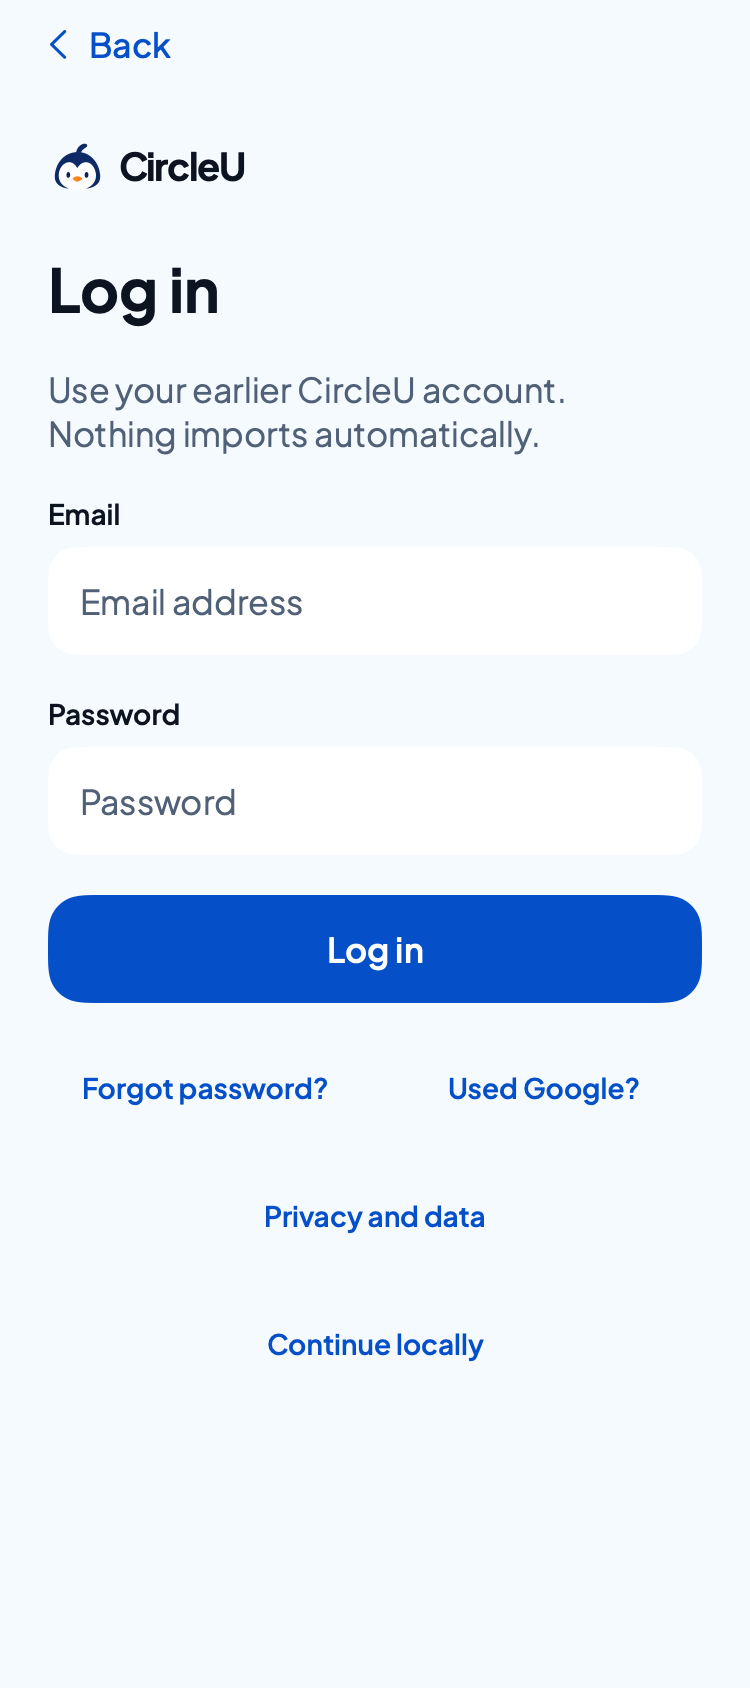
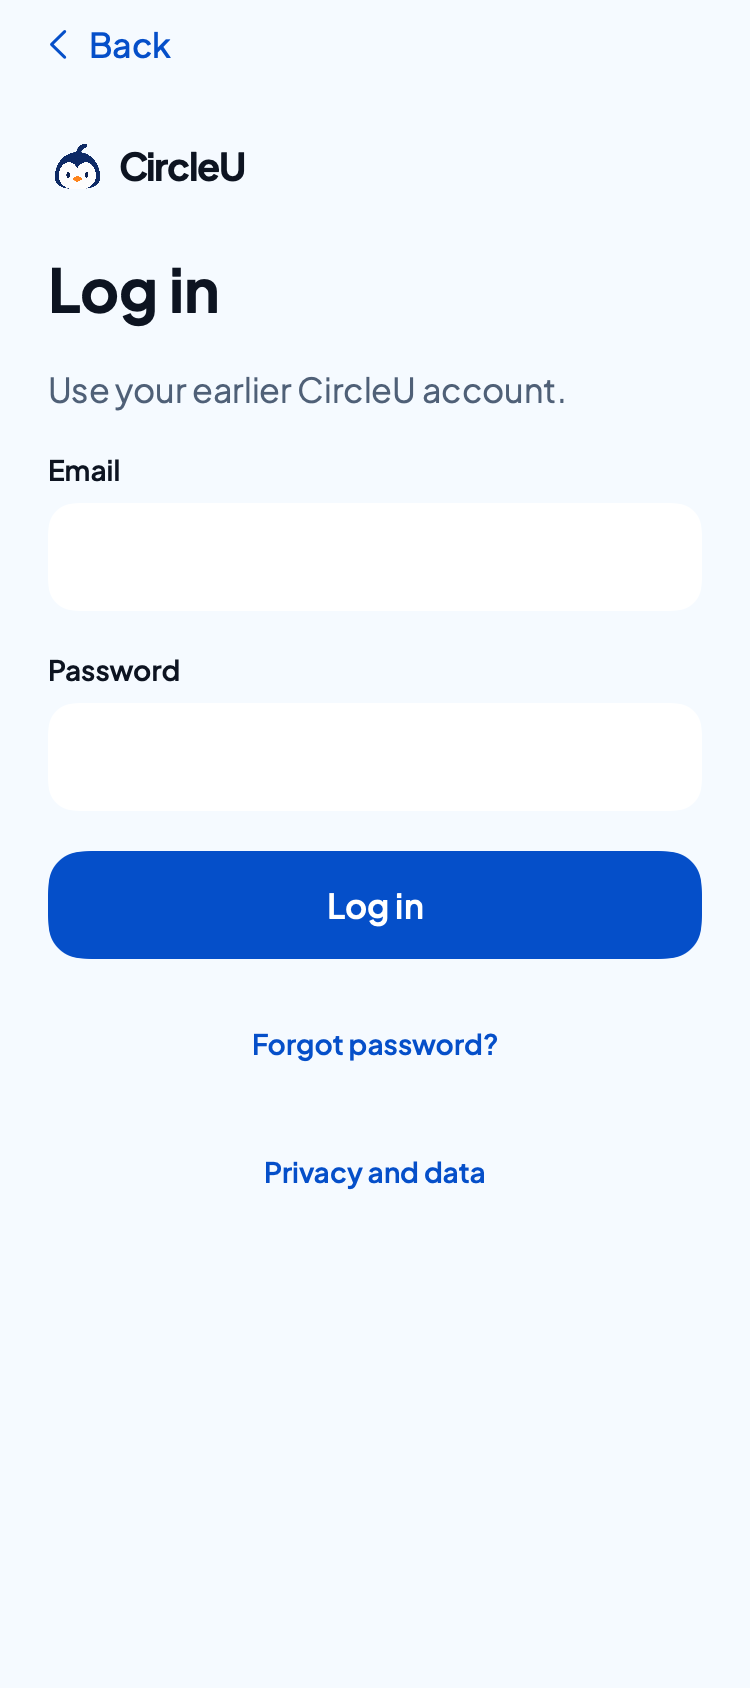
feat(prototype): trim onboarding and recovery copy
Shorten the preview copy to one heading, at most one short supporting
line, one primary action and few secondary links, following concise
sign-in and recovery patterns from popular apps. Drop placeholders that
repeat the visible field labels (accessibility labels kept), the Used
Google? and Continue locally links on Log in, and "Back to…" links that
duplicate the Back control. Account help now appears after a failed
login. Genuine validation, error and recovery exits are unchanged.

Verified in the iPhone 18 Pro / iOS 27.0 Simulator with an out-of-repo
XCUITest runner across the CircleU Preview and motion hosts (4 test
cases passed). Installed on the iPhone; launch was blocked while the
phone was locked. Not run: VoiceOver/large-text pass, Inspector.

diff --git a/Prototypes/CircleUVisualPrototype/Sources/CircleUVisualPrototype/BrandRecoveryPreview.swift b/Prototypes/CircleUVisualPrototype/Sources/CircleUVisualPrototype/BrandRecoveryPreview.swift
@@ -104,43 +104,36 @@ public struct BrandRecoveryPreview: View {
     @ViewBuilder private var screenContent: some View {
         switch screen {
         case .logIn:
-            helper("Use your earlier CircleU account. Nothing imports automatically.")
+            helper("Use your earlier CircleU account.")
             emailField
             passwordField("Password", text: $password, field: .password)
             validationMessage
             action("Log in") { submitLogin() }
-            HStack(spacing: 12) {
-                secondary("Forgot password?") { navigate(.resetRequest) }
-                secondary("Used Google?") { navigate(.help) }
-            }
+            secondary("Forgot password?") { navigate(.resetRequest) }
             secondary("Privacy and data") { navigate(.privacy) }
-            secondary("Continue locally") { leaveLocally() }
         case .checking:
-            progress("Checking your earlier account and backup.")
+            progress("Looking for your backup…")
             secondary("Cancel") { back() }
         case .loginError:
             status("Couldn’t log in", symbol: "person.crop.circle.badge.exclamationmark",
-                   detail: "Check your email, password or original login method. Your entries are unchanged.")
+                   detail: "Check your email and password. Your entries are unchanged.")
             action("Try again") { returnToLogin() }
-            secondary("Reset password") { navigate(.resetRequest) }
-            secondary("Continue locally") { leaveLocally() }
+            secondary("Forgot password?") { navigate(.resetRequest) }
+            secondary("Account help") { navigate(.help) }
         case .offline:
             status("You’re offline", symbol: "wifi.slash", detail: "Connect to check your earlier account. Local entries are unchanged.")
             action("Try again") { replace(.checking) }
             secondary("Continue locally") { leaveLocally() }
         case .resetRequest:
-            helper("We’ll send a link to your earlier account’s email.")
+            helper("We’ll email you a reset link.")
             emailField
             validationMessage
             action("Send reset link") { submitReset() }
-            secondary("Back to Log in") { returnToLogin() }
-            secondary("Privacy and data") { navigate(.privacy) }
         case .sendingReset:
             progress("Requesting a reset link…")
             secondary("Cancel") { back() }
         case .resetSent:
-            status("Reset link", symbol: "envelope", detail: "If an account uses this email, you’ll receive a reset link.")
-            helper("Check spam, or request another link.")
+            helper("If an account uses this email, a reset link is on its way. Check spam if you can’t find it.")
             action("Back to Log in") { returnToLogin() }
             secondary("Send again") { navigate(.resetRequest) }
         case .resetError:
@@ -161,14 +154,14 @@ public struct BrandRecoveryPreview: View {
             progress("Updating your password…")
             secondary("Cancel") { back() }
         case .passwordChanged:
-            status("Password updated", symbol: "checkmark.shield", detail: "Use your new password to log in. Nothing has been imported.")
+            helper("Log in with your new password.")
             action("Log in") { returnToLogin() }
         case .passwordError:
             status("Couldn’t update your password", symbol: "lock", detail: "Your password hasn’t changed. Try again or request a new link.")
             action("Try again") { replace(.newPassword) }
             secondary("Request new link") { replace(.resetRequest) }
         case .backupReview:
-            helper("Choose what to recover. Your current entries stay unchanged.")
+            helper("Choose what to recover. Current entries stay unchanged.")
             recoverySelection
             status("Keep this device’s version", symbol: "iphone", detail: "Your edited reflection won’t be replaced.")
             validationMessage
@@ -202,11 +195,9 @@ public struct BrandRecoveryPreview: View {
             status("Local use", symbol: "iphone", detail: "New entries stay on this device. Device backups may include them.")
             action("Done") { back() }
         case .help:
-            helper("Use the same login method as before. Creating a new account won’t recover the old one.")
-            status("Used Google?", symbol: "person.crop.circle", detail: "Google recovery isn’t available here yet. Keep your original account and app.")
-            status("Keep your earlier app", symbol: "iphone", detail: "Don’t delete the old installation or its data while recovery is unresolved.")
+            helper("Log in the same way as before. A new account won’t recover the old one.")
+            status("Used Google before?", symbol: "person.crop.circle", detail: "Google login isn’t available here yet. Keep your earlier app installed.")
             action("Back to Log in") { returnToLogin() }
-            secondary("Continue locally") { leaveLocally() }
         }
     }
 
@@ -219,7 +210,7 @@ public struct BrandRecoveryPreview: View {
         case .resetSent: "Check your email"
         case .linkExpired, .linkInvalid: "Request a new link"
         case .newPassword, .changingPassword, .passwordError: "New password"
-        case .passwordChanged: "You’re ready to log in"
+        case .passwordChanged: "Password updated"
         case .backupReview: "Earlier data"
         case .noBackup, .backupError: "Earlier backup"
         case .recovering, .recoveryError, .recovered: "Recover your message"
@@ -233,10 +224,10 @@ public struct BrandRecoveryPreview: View {
             Text("Email").font(font(14, .semibold, relativeTo: .subheadline))
             Group {
                 if renderingSnapshot {
-                    Text("Email address").foregroundStyle(BrandDemoColor.muted)
-                        .frame(maxWidth: .infinity, alignment: .leading)
+                    Text(" ").frame(maxWidth: .infinity, alignment: .leading)
                 } else {
-                    TextField("Email address", text: $email)
+                    // The visible label names the field; a matching placeholder would repeat it.
+                    TextField("", text: $email)
                         .textContentType(.emailAddress)
                         .autocorrectionDisabled().focused($focusedField, equals: .email)
                         .submitLabel(screen == .resetRequest ? .done : .next)
@@ -260,10 +251,9 @@ public struct BrandRecoveryPreview: View {
             Text(label).font(font(14, .semibold, relativeTo: .subheadline))
             Group {
                 if renderingSnapshot {
-                    Text(label).foregroundStyle(BrandDemoColor.muted)
-                        .frame(maxWidth: .infinity, alignment: .leading)
+                    Text(" ").frame(maxWidth: .infinity, alignment: .leading)
                 } else {
-                    SecureField(label, text: text)
+                    SecureField("", text: text).accessibilityLabel(label)
                         .textContentType(field == .password ? .password : .newPassword)
                         .focused($focusedField, equals: field).privacySensitive()
                         .submitLabel(field == .newPassword ? .next : .done).onSubmit {

diff --git a/Prototypes/CircleUVisualPrototype/Sources/CircleUVisualPrototype/BrandOnboardingPreview.swift b/Prototypes/CircleUVisualPrototype/Sources/CircleUVisualPrototype/BrandOnboardingPreview.swift
@@ -97,23 +97,21 @@ public struct BrandOnboardingPreview: View {
 
     private var privacy: some View {
         panel(title: "Privacy and data") {
-            information("Saved here", symbol: "iphone", text: "No account needed. New entries stay on this device, with no CircleU sync or cloud AI.")
-            information("Backups & recovery", symbol: "arrow.counterclockwise", text: "Device backups may include entries. Recovery after losing your phone or deleting the app isn’t guaranteed.")
-            information("Export & delete", symbol: "square.and.arrow.up", text: "Export entries you want to keep. Deleting here won’t remove exported copies or entries in existing device backups.")
-            information("Optional voice", symbol: "mic", text: "Type anytime. Permission is requested only when you choose to record.")
-            quietButton("Manage earlier CircleU data") { navigate(to: .earlierData) }
+            information("On this device", symbol: "iphone", text: "No account needed. No CircleU sync or cloud AI.")
+            information("Backups", symbol: "arrow.counterclockwise", text: "Device backups may include entries. Lost entries may not be recoverable.")
+            information("Export & delete", symbol: "square.and.arrow.up", text: "Deleting here doesn’t remove exports or device backups.")
+            information("Voice", symbol: "mic", text: "Microphone access is requested only when you record.")
+            quietButton("Earlier CircleU data") { navigate(to: .earlierData) }
             primaryButton("Done") { back() }
         }
     }
 
     private var earlierData: some View {
         panel(title: "Earlier data") {
-            Text("Recover entries from your earlier CircleU account.")
+            Text("Log in to choose what to recover. Nothing imports automatically.")
                 .font(font(17)).foregroundStyle(BrandDemoColor.muted)
-            information("Your choice", symbol: "hand.raised", text: "Logging in won’t automatically import or erase entries.")
-            information("Old account recovery", symbol: "person.crop.circle", text: "Account recovery needs an internet connection.")
             primaryButton("Log in") { navigate(to: .logIn) }
-            primaryButton("Continue without importing") { navigate(to: .opening) }
+            quietButton("Continue without importing") { navigate(to: .opening) }
         }
     }
 
@@ -122,25 +120,21 @@ public struct BrandOnboardingPreview: View {
             Image(systemName: "lock.shield")
                 .font(.system(size: 40, weight: .light))
                 .foregroundStyle(BrandDemoColor.blue).accessibilityHidden(true)
-            Text("Checking that your saved words can be opened safely.")
+            Text("Checking your saved words can be opened safely.")
                 .font(font(17)).foregroundStyle(BrandDemoColor.muted)
-            Text("Entries stay on this device. Device backups may include them.")
-                .font(font(14, relativeTo: .subheadline)).foregroundStyle(BrandDemoColor.muted)
             quietButton("Privacy and data") { navigate(to: .privacy) }
-            quietButton("Back to welcome") { history = [.welcome] }
         }
     }
 
     private func failure(locked: Bool) -> some View {
         panel(title: locked ? "Your space is locked" : "Couldn’t open your space") {
             Text(locked
-                 ? "Unlock your iPhone, then try again. Your saved words haven’t been changed."
-                 : "Your saved words couldn’t be read. Nothing has been erased or replaced with an empty journal.")
+                 ? "Unlock your iPhone, then try again. Nothing has changed."
+                 : "Your saved words couldn’t be read. Nothing has been erased.")
                 .font(font(17)).foregroundStyle(BrandDemoColor.muted)
             // Static failure fixtures remain failed; retry cannot manufacture readiness.
             primaryButton("Try again") { }
             quietButton("Privacy and data") { navigate(to: .privacy) }
-            quietButton("Back to welcome") { history = [.welcome] }
         }
     }
 

diff --git a/docs/design/account-onboarding.md b/docs/design/account-onboarding.md
@@ -31,3 +31,27 @@ Proposed content change: rename the link **Account help**, retaining the explana
 Firebase documents [Google](https://firebase.google.com/docs/auth/ios/google-signin), [Facebook](https://firebase.google.com/docs/auth/ios/facebook-login) and [Twitter/X](https://firebase.google.com/docs/auth/ios/twitter-login) integration on Apple platforms. Their availability in Firebase does not mean CircleU has configured them. A future optional-account proposal should begin with Apple and Google if a concrete account benefit is approved; defer X/Facebook unless user research establishes demand. Each provider adds configuration, account-linking, cancellation and recovery cases. Preserve the existing account identity and verify ownership rather than inferring the same account from a matching email.
 
 For social login used to establish/authenticate the primary app account, [Apple guideline 4.8](https://developer.apple.com/app-store/review/guidelines/) requires an equivalent privacy-preserving login option unless an exception applies. Plan Sign in with Apple alongside Google and verify the final service against that rule. Guest-first local use and optional legacy recovery remain the approved direction. No provider enablement, Firebase setting, social-login screen or production auth change was made in this review.
+
+## Concise copy pass — 25 October
+
+**Proposed for owner review on `codex/onboarding-content-trim`; not merged.** The owner asked for less on-screen text, keeping only what's necessary, with reference to popular apps. The pattern follows short Apple, Day One and Headspace sign-in/recovery screens: one heading, at most one short supporting line, one primary action and few secondary links. The system Back control replaces duplicate "Back to…" links. Branding, colours, fonts, layout, validation and genuine error/recovery messages are unchanged. This is prototype copy only.
+
+| Screen | Before | After |
+| --- | --- | --- |
+| Log in | "Use your earlier CircleU account. Nothing imports automatically." | "Use your earlier CircleU account." |
+| Log in fields | Labels plus placeholders "Email address" / "Password" | Labels only; accessibility labels kept |
+| Log in links | Forgot password? · Used Google? · Privacy and data · Continue locally | Forgot password? · Privacy and data (Back returns to Welcome) |
+| Couldn't log in | "…email, password or original login method…" · Reset password · Continue locally | "Check your email and password. Your entries are unchanged." · Forgot password? · Account help |
+| Account help | Helper + "Used Google?" + "Keep your earlier app" cards + Continue locally | One helper + one "Used Google before?" card; Back to Log in |
+| Checking | "Checking your earlier account and backup." | "Looking for your backup…" |
+| Reset password | "We'll send a link to your earlier account's email." + Back to Log in + Privacy and data | "We'll email you a reset link." (Back control only) |
+| Check your email | "Reset link" card + "Check spam, or request another link." | "If an account uses this email, a reset link is on its way. Check spam if you can't find it." |
+| Password updated | Title "You're ready to log in" + card "Use your new password to log in. Nothing has been imported." | Title "Password updated" + "Log in with your new password." |
+| Privacy and data | Four two-sentence cards; "Manage earlier CircleU data" | Four one-line cards (on this device, backups, export & delete, voice); "Earlier CircleU data" |
+| Earlier data | Line + two cards; two primary buttons | "Log in to choose what to recover. Nothing imports automatically." · Log in · quiet "Continue without importing" |
+| Opening | Two lines + Privacy and data + Back to welcome | One line + Privacy and data |
+| Locked / read error | Longer reassurance + Back to welcome | "Unlock your iPhone, then try again. Nothing has changed." / "Your saved words couldn't be read. Nothing has been erased." |
+
+Kept deliberately: "Continue locally" on offline, no-backup, backup-error and recovery-error states (a real exit when recovery fails); the expired/invalid-link "Back to Log in" (a reset link may open without a Log in screen behind it); the Privacy link on Log in (privacy information before entering details); "Nothing imports automatically" on Earlier data (an approved truthful-recovery rule).
+
+Used Google? is removed from Log in. Account help is reachable only after a failed login. Google, Apple, X and Facebook login remain deferred proposals (see above); no provider was added.

diff --git a/docs/agent-collaboration-log/2026-10-25-090633-claude-main-merge-content-trim.md b/docs/agent-collaboration-log/2026-10-25-090633-claude-main-merge-content-trim.md
@@ -1,0 +1,33 @@
+# Main merge and concise onboarding copy
+
+- Recorded: 2026-10-25 09:06:33 +11:00; Australia/Sydney.
+- Agent / role: Claude (Claude Code).
+- Status: main merge completed; copy pass proposed on a PR for owner review.
+- Base revision and branch: `3f3abcc` (merged to main as `81ed9af`); new branch `codex/onboarding-content-trim`.
+- Related record: [phone entry correction](2026-10-25-082500-claude-correction-phone-entry-log.md); [copy table](../design/account-onboarding.md#concise-copy-pass--25-october).
+
+## Request and scope
+
+The owner asked for suggestions, approved pushing to main, and asked for the onscreen content to be concise, keeping only what's necessary and referring to popular apps. The coordinator's brief turned this into a merge PR plus a separate copy-trim PR that the owner reviews before merging. Prototype copy only; no Today or production feature work.
+
+## Work and outcome
+
+- Opened PR #1 (`codex/journal-calendar-planning` → `main`) and merged it with a merge commit as `81ed9af`. CI `Build and Test` failed with `Unable to open base configuration reference file Config/Signing.xcconfig`. That file is a git-ignored per-developer config already referenced by main's project. Main's CI push runs had already been failing since at least June, and the PR did not touch `Circleu.xcodeproj` or `Config/`. A local Simulator build of the `Circleu` scheme succeeded (Xcode 27.1, build only, nothing installed or launched). The CI fix is not done.
+- Trimmed copy in `BrandOnboardingPreview.swift` and `BrandRecoveryPreview.swift`; see the before/after table in [account onboarding](../design/account-onboarding.md#concise-copy-pass--25-october). Removed duplicated placeholders, the Used Google? and Continue locally links on Log in, duplicate "Back to…" links and multi-card explanations. Account help moved to the failed-login state. Added a matching rule to the [content standard](../design/content.md) and a pointer in the [flow checklist](../product/flow-status-checklist.md).
+- Regenerated the four committed recovery boards (`brand-09-errors`, `-login-compact`, `-password`, `-recovery`). The renderer isn't pixel-deterministic, so the other unchanged boards were not replaced.
+
+## Verification
+
+- iPhone 18 Pro / iOS 27.0 Simulator: an out-of-repo XCUITest runner drove CircleU Preview (Log in, validation, Privacy, reset, Check your email, login → checking → Earlier data → Opening, Back → Welcome) and the existing motion Simulator host with fixture/scenario arguments: Welcome guest route, Privacy → Earlier data, New password mismatch/completion, expired/invalid link, login error → Account help, offline, backup error/retry, no backup, reset error, recovery selection validation and error. All four test cases passed. One run failed in the test itself: it typed onto the email that Log in deliberately keeps after a reset. The test was fixed to relaunch.
+- Phone: trimmed host built, signed and installed on the iPhone 11 Pro Max; launch was refused while the phone was locked. No phone observation of the new copy yet.
+- Not run: VoiceOver/large-text pass of the trimmed screens, Inspector re-audit, full-app tests.
+
+## Discussion and decisions
+
+None between agents. Owner decisions needed are listed in the handoff.
+
+## Handoff
+
+- Remaining work: owner review of the copy PR on phone or Simulator; CI repair (Signing.xcconfig in CI, Xcode/destination) as a separate task.
+- Owner: Mike for copy approval and the decisions below; CI repair unassigned.
+- Decisions: (1) Privacy card wording is shorter but still makes data claims, so check it reads accurately. (2) Account help is now only reachable after a failed login; earlier Google users get no hint up front. (3) Log in subtitle kept as "Use your earlier CircleU account." rather than "Restore data from…", because logging in alone doesn't import.

diff --git a/docs/product/flow-status-checklist.md b/docs/product/flow-status-checklist.md
@@ -40,7 +40,7 @@ These are intended routes, not a claim that every transition runs in the product
 
 | ID | Flow | Prepared / checked so far | Next / pending |
 | --- | --- | --- | --- |
-| F01 | Welcome and optional login | Simplified native Welcome and routes checked; accessibility1/5 layouts inspected; owner reported Privacy/recovery gestures and new Log in/reset-request scrolling and controls working at accessibility5 | Selected physical login/reset keyboard, VoiceOver labels/error/Back and largest-text Welcome/Privacy/earlier-data reachability passed by owner report; see the [25 October review](../qa/native-onboarding-final-review-2026-10-25.md). New password Next/mismatch/completion passed in Simulator and all three physical VoiceOver/maximum-text checks passed by owner report. The owner's phone screenshot confirms the restored normal entry opens on Log in with empty fields. Inspector warnings and broader gesture/compact-height coverage remain. Real authentication/readiness is unimplemented; production still has signup/signin/Skip |
+| F01 | Welcome and optional login | Simplified native Welcome and routes checked; accessibility1/5 layouts inspected; owner reported Privacy/recovery gestures and new Log in/reset-request scrolling and controls working at accessibility5 | Selected physical login/reset keyboard, VoiceOver labels/error/Back and largest-text Welcome/Privacy/earlier-data reachability passed by owner report; see the [25 October review](../qa/native-onboarding-final-review-2026-10-25.md). New password Next/mismatch/completion passed in Simulator and all three physical VoiceOver/maximum-text checks passed by owner report. The owner's phone screenshot confirms the restored normal entry opens on Log in with empty fields. Inspector warnings and broader gesture/compact-height coverage remain. A [concise copy pass](../design/account-onboarding.md#concise-copy-pass--25-october) awaits owner review. Real authentication/readiness is unimplemented; production still has signup/signin/Skip |
 | F02 | Privacy before/after starting | Draft 02 states; local optional details and nested return paths checked, including earlier-data choice and storage failures | Review understanding of device backups, data-loss limits and earlier-account separation; reconcile release copy with actual behavior |
 | F03 | Today and main navigation | Three-tab structure approved; wireframes, branded hub and empty-Today proposal | Consolidate branded Figma; distinguish first visit, retained draft and returning saved history |
 | F04 | Typed situation capture | Wireframe and branded capture, including words-only exit | Walk through input clarity, validation and route choices; real capture is not implemented in static boards |

diff --git a/docs/design/content.md b/docs/design/content.md
@@ -54,7 +54,7 @@ Keep the accepted Plus Jakarta Sans family and blue/ice/ink palette. New copy mu
 
 ## Review before accepting copy
 
-Read the screen at normal and larger text sizes: one clear purpose, explicit actions, no duplicated helper, no unexplained icon, consistent terms and accurate outcome/privacy claims. Check empty, loading, validation and error states, not only the happy path. Keep approved strings near their feature for now; a production String Catalog and a complete copy inventory belong to the implementation plan, not this documentation change.
+Read the screen at normal and larger text sizes: one clear purpose, explicit actions, no duplicated helper, no placeholder repeating a visible field label, no link duplicating the Back control, no unexplained icon, consistent terms and accurate outcome/privacy claims. Check empty, loading, validation and error states, not only the happy path. Keep approved strings near their feature for now; a production String Catalog and a complete copy inventory belong to the implementation plan, not this documentation change.
 
 ## References
 
